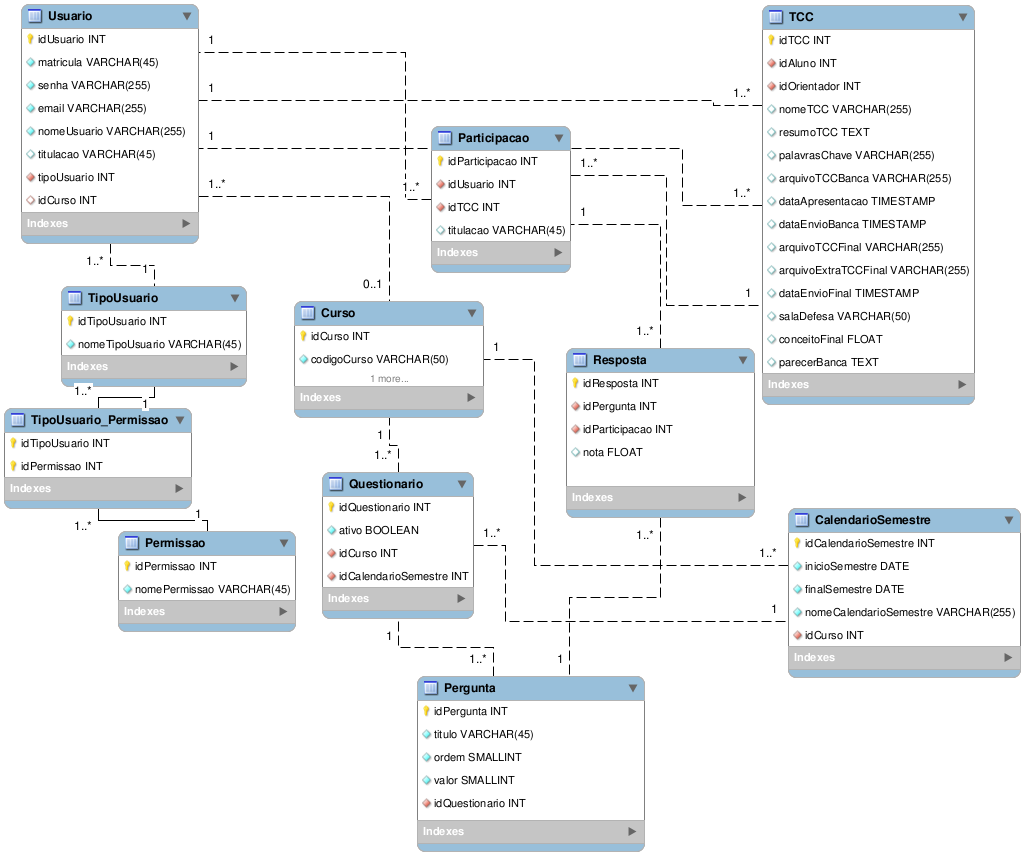
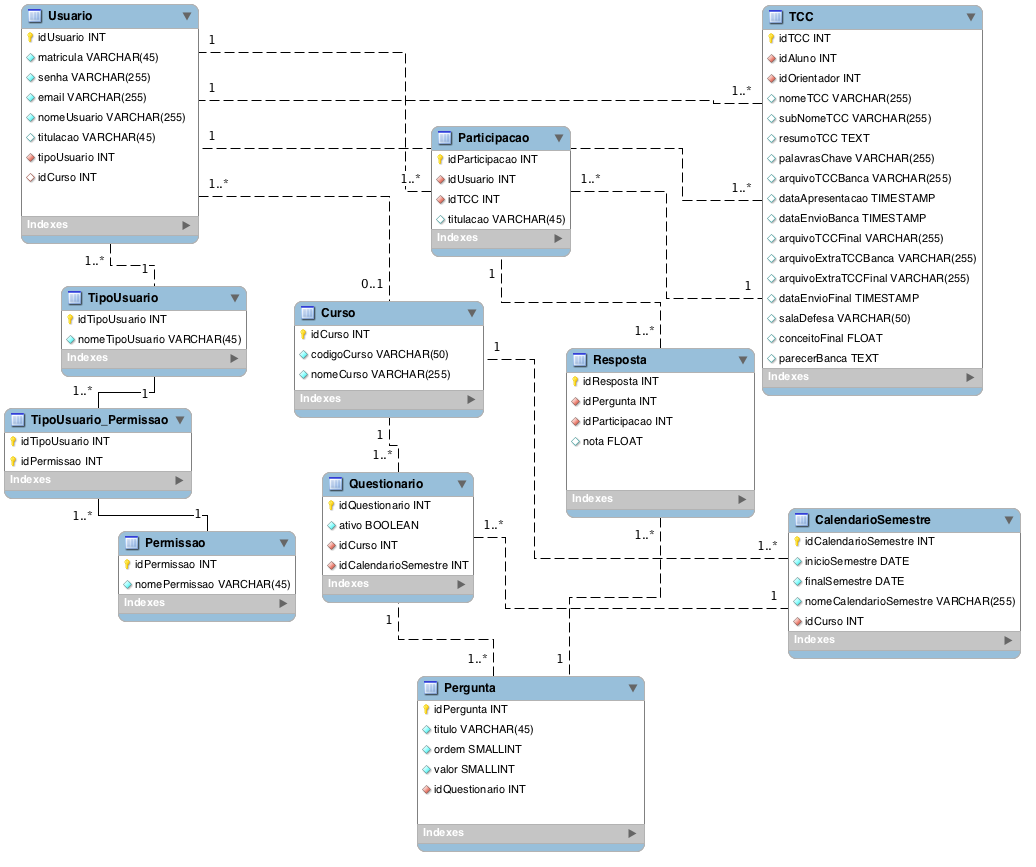
Correções e Modificações no Cadastro do TCC

diff --git a/src/br/ufjf/tcc/controller/CadastroTccController.java b/src/br/ufjf/tcc/controller/CadastroTccController.java
@@ -8,9 +8,11 @@ import java.io.IOException;
 import java.io.InputStream;
 import java.io.OutputStream;
 import java.sql.Timestamp;
+import java.util.ArrayList;
 import java.util.Date;
 import java.util.List;
 
+import org.zkoss.bind.BindUtils;
 import org.zkoss.bind.annotation.BindingParam;
 import org.zkoss.bind.annotation.Command;
 import org.zkoss.bind.annotation.Init;
@@ -18,6 +20,8 @@ import org.zkoss.util.media.AMedia;
 import org.zkoss.util.media.Media;
 import org.zkoss.zk.ui.Sessions;
 import org.zkoss.zk.ui.event.UploadEvent;
+import org.zkoss.zul.Button;
+import org.zkoss.zul.Combobox;
 import org.zkoss.zul.Iframe;
 import org.zkoss.zul.Messagebox;
 
@@ -29,11 +33,9 @@ import br.ufjf.tcc.model.Usuario;
 
 public class CadastroTccController extends CommonsController {
 
-	private TCC newTcc = new TCC();
 	private TCCBusiness tccBusiness = new TCCBusiness();
-	private List<Usuario> orientadores = new UsuarioBusiness()
-			.getOrientadores();
-	
+	private List<Usuario> orientadores = new ArrayList<Usuario>();
+	private TCC tcc;
 	private Iframe iframe;
 	private Media media = null, extraMedia = null;
 	private static final String SAVE_PATH = Sessions.getCurrent().getWebApp()
@@ -44,24 +46,26 @@ public class CadastroTccController extends CommonsController {
 	public void init() {
 		getUsuario().setTcc(tccBusiness.getTCCByUser(getUsuario()));
 		SessionManager.setAttribute("usuario", getUsuario());
+		tcc = getUsuario().getTcc().get(0);
+		orientadores.add(tcc.getOrientador());
 	}
-	
+
+	public TCC getTcc() {
+		return tcc;
+	}
+
+	public void setTcc(TCC tcc) {
+		this.tcc = tcc;
+	}
+
 	@Command
-	public void showTCC(@BindingParam("iframe") Iframe report) {
-		InputStream is = Sessions.getCurrent().getWebApp()
-				.getResourceAsStream("files/modelo.pdf");
-
-		final AMedia amedia = new AMedia("PDFReference16.pdf", "pdf",
-				"application/pdf", is);
-		report.setContent(amedia);
-	}
-	
-	public TCC getNewTcc() {
-		return newTcc;
-	}
-
-	public void setNewTcc(TCC newTcc) {
-		this.newTcc = newTcc;
+	public void changeOrientador(@BindingParam("butOrientador") Button butOrientador,
+			@BindingParam("cmbOrientador") Combobox cmbOrientador) {
+		if (orientadores.size() <= 1) {
+			orientadores = new UsuarioBusiness().getOrientadores();
+			BindUtils.postNotifyChange(null, null, this, "orientadores");
+		}
+		butOrientador.setVisible(false);
 	}
 
 	public List<Usuario> getOrientadores() {
@@ -78,6 +82,16 @@ public class CadastroTccController extends CommonsController {
 	}
 
 	@Command
+	public void showTCC(@BindingParam("iframe") Iframe report) {
+		InputStream is = Sessions.getCurrent().getWebApp()
+				.getResourceAsStream("files/modelo.pdf");
+
+		final AMedia amedia = new AMedia("PDFReference16.pdf", "pdf",
+				"application/pdf", is);
+		report.setContent(amedia);
+	}
+
+	@Command
 	public void upload(@BindingParam("evt") UploadEvent evt) {
 		Media auxMedia = evt.getMedia();
 		if (!auxMedia.getName().contains(".pdf")) {
@@ -88,11 +102,11 @@ public class CadastroTccController extends CommonsController {
 			return;
 		}
 		media = auxMedia;
-		final AMedia tccFile = new AMedia(newTcc.getNomeTCC(), "pdf",
+		final AMedia tccFile = new AMedia(tcc.getNomeTCC(), "pdf",
 				"application/pdf", media.getStreamData());
 		iframe.setContent(tccFile);
 	}
-	
+
 	@Command
 	public void extraUpload(@BindingParam("evt") UploadEvent evt) {
 		Media auxMedia = evt.getMedia();
@@ -115,7 +129,7 @@ public class CadastroTccController extends CommonsController {
 
 			String newFileName = tccBusiness.encriptFileName();
 			if (newFileName != null) {
-				newTcc.setArquivoTCCBanca(newFileName);
+				tcc.setArquivoTCCBanca(newFileName);
 
 				File file = new File(SAVE_PATH + newFileName);
 
@@ -146,7 +160,7 @@ public class CadastroTccController extends CommonsController {
 		}
 
 	}
-	
+
 	@Command
 	public void saveExtraFile() {
 		BufferedInputStream in = null;
@@ -163,7 +177,7 @@ public class CadastroTccController extends CommonsController {
 
 			String newFileName = tccBusiness.encriptFileName();
 			if (newFileName != null) {
-				newTcc.setArquivoExtraTCCBanca(newFileName);
+				tcc.setArquivoExtraTCCBanca(newFileName);
 
 				File file = new File(SAVE_PATH + newFileName);
 
@@ -197,8 +211,7 @@ public class CadastroTccController extends CommonsController {
 
 	@Command("submit")
 	public void submit() {
-		newTcc.setDataEnvioBanca(new Timestamp(new Date().getTime()));
-		newTcc.setAluno(getUsuario());
+		tcc.setDataEnvioBanca(new Timestamp(new Date().getTime()));
 		if (media != null)
 			savePDF();
 		else
@@ -206,12 +219,12 @@ public class CadastroTccController extends CommonsController {
 					.show("Você não enviou o arquivo de TCC. Lembre-se de enviá-lo depois.");
 		if (extraMedia != null)
 			saveExtraFile();
-		if (tccBusiness.validate(newTcc)) {
-			if (tccBusiness.save(newTcc)) {
-				//new SendMail().onSubmitTCC(newTcc);
+		if (tccBusiness.validate(tcc)) {
+			if (tccBusiness.edit(tcc)) {
+				// new SendMail().onSubmitTCC(tcc);
 				Messagebox
 						.show("\""
-								+ newTcc.getNomeTCC()
+								+ tcc.getNomeTCC()
 								+ "\" cadastrado com sucesso!\nUma mensagem de confirmação foi enviada para o seu e-mail.");
 				tccBusiness.clearErrors();
 			} else {

diff --git a/src/br/ufjf/tcc/controller/HomeAlunoController.java b/src/br/ufjf/tcc/controller/HomeAlunoController.java
@@ -51,7 +51,7 @@ public class HomeAlunoController extends CommonsController {
 			dates.add(new CustomDate(fmt.print(date0),
 					"Prazo para envio de TCC",
 					(getUsuario().getTcc().size() != 0 ? "Editar TCC"
-							: "Criar TCC"), false));
+							: "Registrar TCC"), false));
 
 			DateTime date1 = finalDate.minusDays(60);
 			dates.add(new CustomDate(fmt.print(date1), "Prazo 1", "Botão 1",
@@ -82,7 +82,7 @@ public class HomeAlunoController extends CommonsController {
 	public void action(@BindingParam("date") CustomDate date, @BindingParam("window") Window window) {
 		if (date.action == "Editar TCC") {
 			Executions.sendRedirect("/pages/cadastro-tcc.zul");
-		} else if (date.action == "Criar TCC") {
+		} else if (date.action == "Registrar TCC") {
 			if(orientadores == null){
 				orientadores = new UsuarioBusiness().getOrientadores();
 				BindUtils.postNotifyChange(null, null, this, "orientadores");

diff --git a/src/br/ufjf/tcc/model/TCC.java b/src/br/ufjf/tcc/model/TCC.java
@@ -47,6 +47,14 @@ public class TCC implements Serializable {
 	 */
 	@Column(name = "nomeTCC", length = 255, nullable = true)
 	private String nomeTCC;
+	
+	/**
+	 * Campo com o sub nome do TCC. Relaciona com a coluna {@code nomeTCC} do banco
+	 * através da anotação
+	 * {@code @Column(name = "subNomeTCC", length = 255, nullable = true)}.
+	 */
+	@Column(name = "subNomeTCC", length = 255, nullable = true)
+	private String subNomeTCC;
 
 	/**
 	 * Campo com o resumo do TCC. Relaciona com a coluna {@code resumoTCC} do
@@ -190,6 +198,14 @@ public class TCC implements Serializable {
 
 	public void setNomeTCC(String nomeTCC) {
 		this.nomeTCC = nomeTCC;
+	}
+	
+	public String getSubNomeTCC() {
+		return subNomeTCC;
+	}
+
+	public void setSubNomeTCC(String subNomeTCC) {
+		this.subNomeTCC = subNomeTCC;
 	}
 
 	public String getArquivoTCCBanca() {
